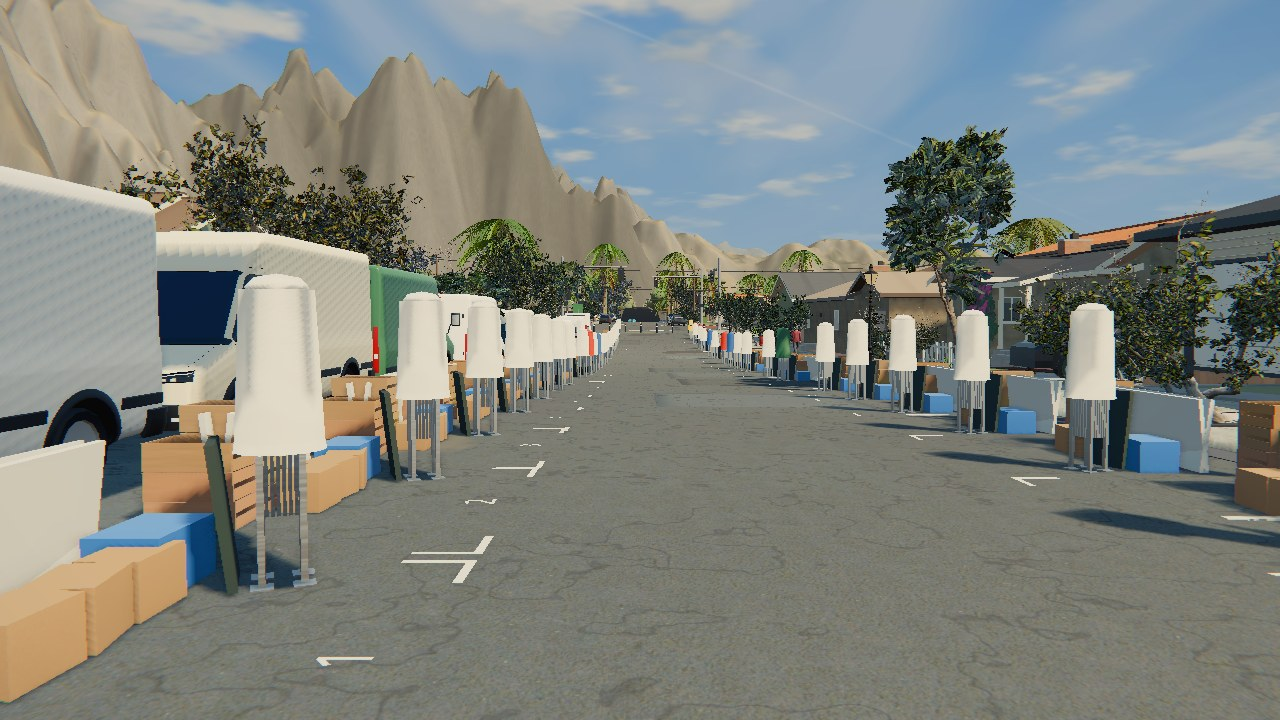
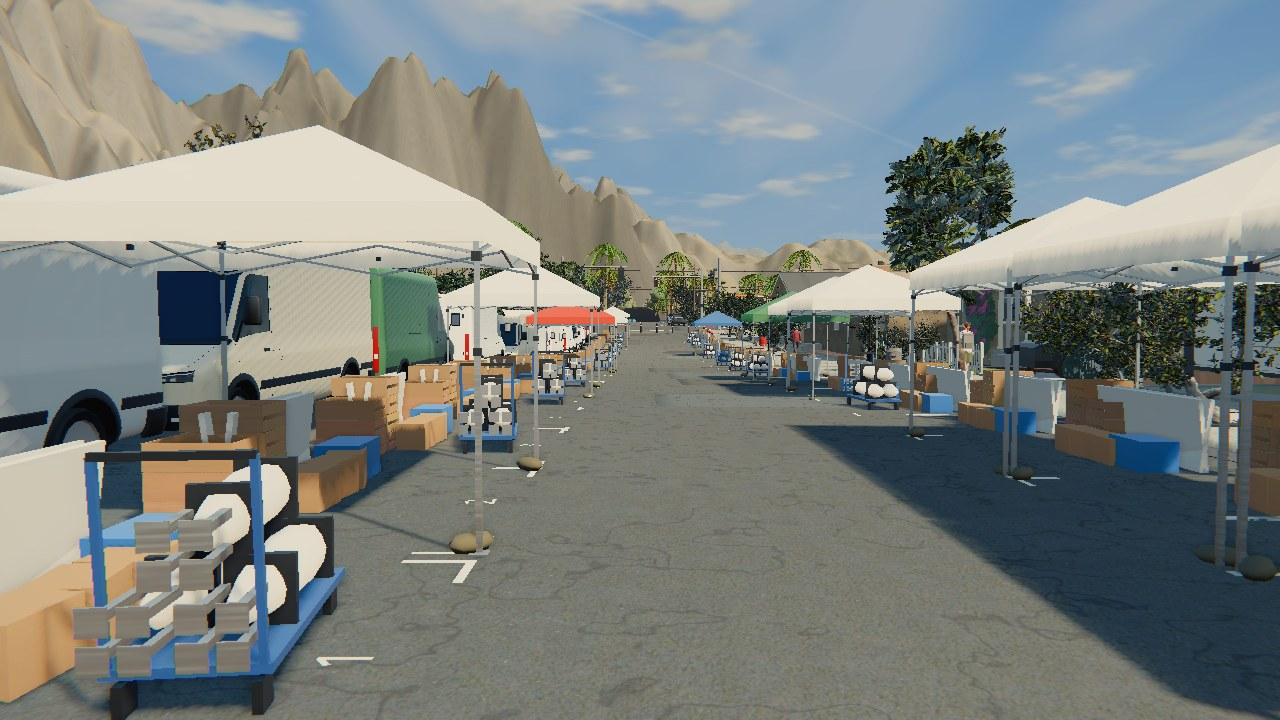
Farmers' market stills: off-hours re-shot (half-struck stalls, folded canopies on carts)

diff --git a/README.md b/README.md
@@ -8,15 +8,17 @@ day is Saturday, the day the game starts on.
   string lights, produce, flowers and jars, shoppers browsing, stallholders.
 - 03_after_produce_stall_closeup.jpg - a produce table: crates of tomatoes, apples, lemons,
   peppers with chalk prices on a cloth.
-- 04_after_palm_st_1350_packing_up.jpg - 13:50: canopies folded, tables and crates stacked,
-  vans waiting; the painted stall marks.
+- 04_after_palm_st_1350_packing_up.jpg - 13:50 (re-shot after the lead's review): some stalls
+  half struck (canopy still up over folded tables and stacked crates), folded canopies lying on
+  platform carts, the rest already loaded; vans waiting; the painted stall marks.
 - 05_after_palm_st_0930_aerial.jpg - from 24 m: the two rows, a few coloured canopies, the vans
   behind the north row, bollards and the market's sign at the near end.
 - 06_after_pavement_vans_behind_stalls.jpg - from the pavement: the growers' vans parked along
   the kerb behind their stalls.
 - 07_after_1350_packing_up_aerial.jpg - packing up from above.
+- 09_after_1350_packing_up_vans_and_stacks.jpg - packing up beside the vans.
 - 08_after_1630_packed_up_empty_street.jpg - 16:30: everything gone but the stall marks
   (and the bollards behind the camera); every other day of the week looks like this.
 
 Frame cost at the aisle camera (still_shot GEO, opengl3): market off 5.68 M tris / 3,107 draws;
-busy 6.18 M / 3,255 (+0.49 M, +148 draws); packing up 5.76 M / 3,188.
+busy 6.18 M / 3,255 (+0.49 M, +148 draws); packing up 5.79 M / 3,193.
